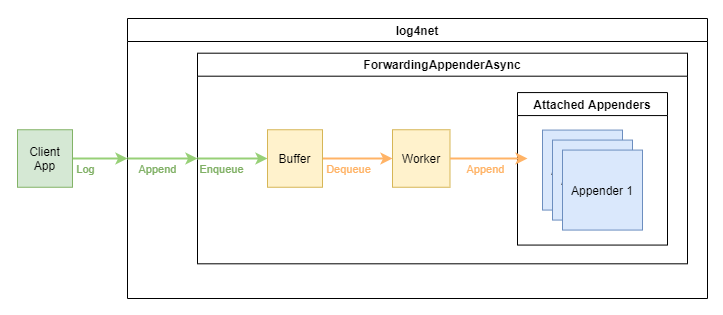
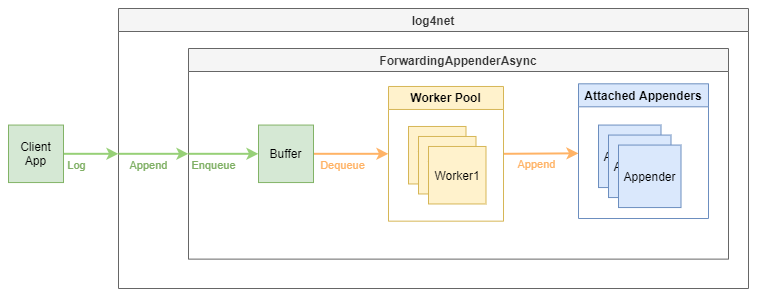
log4net tools
- update the documentation, unit tests. Add parameter validation

Changed region(s): [[0.0, 0.0, 1.0, 0.9834], [0.6999, 0.7748, 0.9129, 0.8046], [0.5173, 0.7152, 0.6694, 0.745]]

diff --git a/log4net.tools.Tests/ForwardingAppenderAsyncTest.cs b/log4net.tools.Tests/ForwardingAppenderAsyncTest.cs
@@ -1,4 +1,5 @@
-using System.Diagnostics;
+using System;
+using System.Diagnostics;
 using System.Threading;
 using log4net.Config;
 using log4net.Core;
@@ -11,11 +12,12 @@ namespace log4net.tools.Tests
     {
         private const int BlockingTimeSec = 3;
         private const int BufferSize = 3;
+
         private ForwardingAppenderAsync _forwardingAppender;
         private CountingAppender _countingAppender;
         private Repository.Hierarchy.Hierarchy _hierarchy;
 
-        private void SetupRepository(int bufferSize = 0, byte poolSize = 3)
+        private void SetupRepository(int bufferSize = 0, byte poolSize = 1)
         {
             _hierarchy = new Repository.Hierarchy.Hierarchy();
 
@@ -31,10 +33,14 @@ namespace log4net.tools.Tests
             BasicConfigurator.Configure(_hierarchy, _forwardingAppender);
         }
 
-        [Fact]
-        public void Append_Warn_Success()
+        [Theory]
+        [InlineData(0, 1)]
+        [InlineData(100, 10)]
+        [InlineData(0, 10)]
+        [InlineData(100, 1)]
+        public void Append_Warn_Success(int bufferSize, byte poolSize)
         {
-            SetupRepository();
+            SetupRepository(bufferSize, poolSize);
 
             Assert.Equal(0, _countingAppender.Counter);
 
@@ -44,10 +50,23 @@ namespace log4net.tools.Tests
             Assert.Equal(1, _countingAppender.Counter);
         }
 
-        [Fact]
-        public void Append_BufferOverflowWait_Blocked()
+        [Theory]
+        [InlineData(100, 0)]
+        [InlineData(-100, 1)]
+        [InlineData(-100, 0)]
+        [InlineData(0, 0)]
+        public void Append_InvalidParameters_Error(int bufferSize, byte poolSize)
         {
-            SetupRepository(BufferSize);
+            Assert.Throws<InvalidOperationException>(() => SetupRepository(bufferSize, poolSize));
+        }
+
+
+        [Theory]
+        [InlineData(3, 10)]
+        [InlineData(3, 1)]
+        public void Append_BufferOverflowWait_Blocked(int bufferSize, byte poolSize)
+        {
+            SetupRepository(bufferSize, poolSize);
             var blockingAppender = new BlockingAppender(BlockingTimeSec);
             _forwardingAppender.AddAppender(blockingAppender);
             _forwardingAppender.BufferOverflowBehaviour = BufferOverflowBehaviour.Wait;
@@ -57,8 +76,8 @@ namespace log4net.tools.Tests
             Assert.True(2 == _countingAppender.Counter, $"Count of loggingEvents processed: {_countingAppender.Counter}");
             Assert.True(BlockingTimeSec == lastLogElapsedSec, $"Duration in seconds when client was blocked: {lastLogElapsedSec}");
 
-            Thread.Sleep((BufferSize + 3) * BlockingTimeSec * 1000); // wait for all the events are processed
-            Assert.True(BufferSize + 2 == _countingAppender.Counter, $"Final count of loggingEvents processed: {_countingAppender.Counter}");
+            Thread.Sleep((bufferSize + 3) * BlockingTimeSec * 1000); // wait for all the events are processed
+            Assert.True(bufferSize + 2 == _countingAppender.Counter, $"Final count of loggingEvents processed: {_countingAppender.Counter}");
         }
 
         [Fact]

diff --git a/log4net.tools/ForwardingAppenderAsync.cs b/log4net.tools/ForwardingAppenderAsync.cs
@@ -93,6 +93,20 @@ namespace log4net.tools
 
         public void ActivateOptions()
         {
+            if (WorkerPoolSize < 1)
+            {
+                var message = $"{WorkerPoolSize} must be more or equal to 1";
+                ErrorLogger.Error(message);
+                throw new InvalidOperationException(message);
+            }
+
+            if (BufferSize < 0)
+            {
+                var message = $"{BufferSize} must be more or equal to 0";
+                ErrorLogger.Error(message);
+                throw new InvalidOperationException(message);
+            }
+
             Buffer = BufferSize > 0
                 ? new BlockingCollection<LoggingEvent>(BufferSize) // call to Add may block until space is available to store the provided item (https://docs.microsoft.com/en-us/dotnet/api/system.collections.concurrent.blockingcollection-1.add?view=net-5.0#System_Collections_Concurrent_BlockingCollection_1_Add__0_)
                 : new BlockingCollection<LoggingEvent>();

diff --git a/README.md b/README.md
@@ -25,7 +25,7 @@ The 'Dequeue' graph reflects the latency in microseconds of the RollingFileAppen
 The approach allows:
 - to get the minimal blocking of the client app;
 - to turn any 'old' synchronous appender into the 'async' version easily without additional coding or recompile;
-- to eliminate concurrent waits on the [internal lock section](https://git-wip-us.apache.org/repos/asf?p=logging-log4net.git;a=blob;f=src/log4net/Appender/AppenderSkeleton.cs;h=44b68c7555944ddcc2e862901ce8513ce0bff10f;hb=refs/heads/master#l297) as the background worker is singlethreaded;
+- to eliminate concurrent waits on the [internal lock section](https://git-wip-us.apache.org/repos/asf?p=logging-log4net.git;a=blob;f=src/log4net/Appender/AppenderSkeleton.cs;h=44b68c7555944ddcc2e862901ce8513ce0bff10f;hb=refs/heads/master#l297) as the background worker is singlethreaded if no pooling is used;
 - to build aggregations over the buffer. For example, to drop log duplicates or generate stats on the fly.
 <br/>
 
@@ -49,6 +49,7 @@ The example of the advanced configuration:
     <Fix value="260"/>
     <BufferOverflowBehaviour value="RejectNew"/>
     <BufferClosingType value="DumpToLog"/>
+    <WorkerPoolSize value="5"/>
 
     <appender-ref ref="DebugAppender" />
     <appender-ref ref="RollingFileAppender" />
@@ -97,14 +98,13 @@ The worker pool allows to improve throughput between the buffer and the attached
 For example, the test with the RollingFileAppender shows the difference in intencity of 'dequeue' events:
 ![1vs5_workers_rps](https://github.com/ABorovtsov/log4net/blob/main/img/metrics/1vs5_workers_rps.png?raw=true)
 
-The latency is on the same level. We observe that more workers generate more dots in the stats.
+The latency is on the same level. The latency is on the same level. We observe that more workers generate the denser 'Dequeue' graph.
 ![1vs5_workers_latency](https://github.com/ABorovtsov/log4net/blob/main/img/metrics/1vs5_workers_latency.png?raw=true)
 
-The latency is on the same level. We observe that more workers generate more dots in the stats.
-![1vs5_workers_latency](https://github.com/ABorovtsov/log4net/blob/main/img/metrics/1vs5_workers_latency.png?raw=true)
-
-The buffer size growth goes not as steep as with the single threaded configuration as workers more productive in processing of the benchmark stress load.
+The buffer size grows not as steep as with the single threaded configuration as several workers together are more productive in processing of the benchmark stress load.
 ![1vs5_workers_buffer](https://github.com/ABorovtsov/log4net/blob/main/img/metrics/1vs5_workers_buffer.png?raw=true)
+
+The 'WorkerPoolSize' configuration property defines the level of parallelism. The default value is '1' which corresponds to the 'single worker' scenario.
 
 ## [ForwardingAppenderAsyncWithMetrics](https://github.com/ABorovtsov/log4net/blob/main/log4net.tools/Metrics/ForwardingAppenderAsyncWithMetrics.cs)
 The appender grabs the metrics: LatencyUs, BufferSize, AllocatedBytes in addition to the [ForwardingAppenderAsync](https://github.com/ABorovtsov/log4net/blob/main/log4net.tools/ForwardingAppenderAsync.cs) functionality. The default output is Trace Info. Metrics bring some additional load so it is recommended to use the ForwardingAppenderAsync in scenarios where the minimum latency is required.
@@ -129,6 +129,7 @@ The example of the advanced xml configuration:
     <Fix value="260"/>
     <BufferOverflowBehaviour value="RejectNew"/>
     <BufferClosingType value="DumpToLog"/>
+    <WorkerPoolSize value="5"/>
 
     <appender-ref ref="DebugAppender" />
     <appender-ref ref="RollingFileAppender" />
